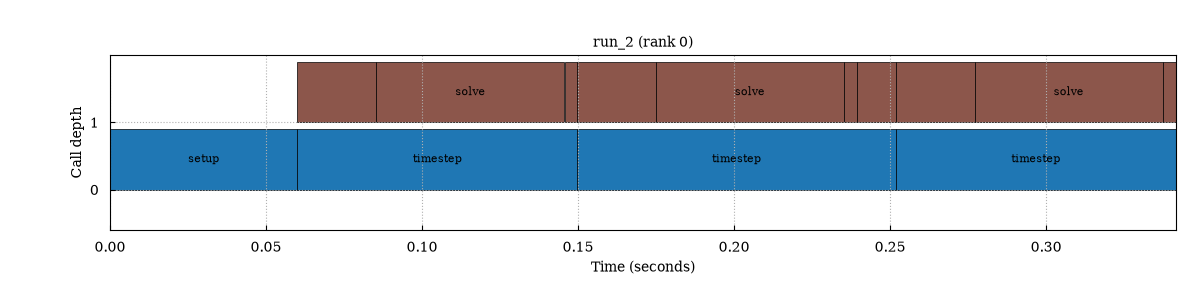
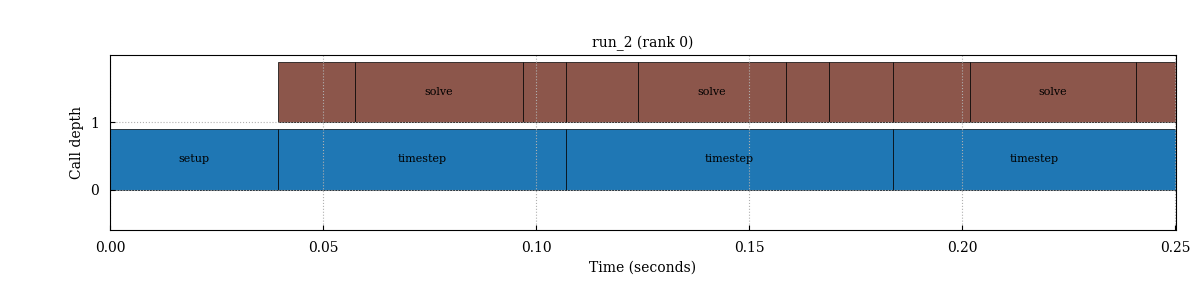
Fixed the Gantt chart

diff --git a/src/scope_profiler/plotting_scripts.py b/src/scope_profiler/plotting_scripts.py
@@ -99,32 +99,44 @@ def _get_cmap_colors(cmap: str, n_colors: int) -> list[str]:
 def _add_gantt_bars(
     canvas,
     row: int | None,
-    tasks: Sequence[str],
-    starts: Sequence[float],
-    durations: Sequence[float],
-    colors: Sequence[str],
+    lanes: Sequence[str],
+    bars: Sequence[tuple[int, float, float, str]],
     alpha: float = 0.7,
 ) -> None:
-    """Draw ``Canvas.gantt`` bars, one call per color.
+    """Draw ``Canvas.gantt`` bars, every call of a lane on that lane's row.
 
-    ``Canvas.gantt`` takes a single color per call: maxplotlib's Plotly
-    backend reads ``color`` as one RGB(A) value, so passing a per-bar list
-    raises. One call is therefore issued per distinct color, with the bars
-    belonging to the other colors passed as NaN. NaN bars draw nothing on
-    either backend while still occupying their row, which keeps every call
-    on the row ``Canvas.gantt`` assigns it (``y = arange(len(tasks))``).
+    ``Canvas.gantt`` puts bar *i* of a call on row *i* (``y =
+    arange(len(tasks))``, on both backends) and takes a single color for the
+    whole call, since maxplotlib's Plotly backend reads ``color`` as one
+    RGB(A) value. Each drawing call therefore passes one entry per lane --- so
+    the entry index is the lane's row --- and only fills in the bars sharing
+    one color; the rest are NaN, which draws nothing on either backend.
+
+    Lanes hold several calls, so bars are grouped by their position within the
+    lane as well: the *k*-th call of every lane goes into the same group,
+    leaving at most one bar per lane per drawing call.
     """
     col = None if row is None else 0
-    starts = np.asarray(starts, dtype=float)
-    durations = np.asarray(durations, dtype=float)
-    colors = np.asarray(colors, dtype=object)
+    n_lanes = len(lanes)
 
-    for color in dict.fromkeys(colors.tolist()):
-        mask = colors == color
+    # (color, index within the lane) -> the bars drawn together.
+    groups: dict[tuple[str, int], list[tuple[int, float, float]]] = defaultdict(list)
+    calls_per_lane: dict[int, int] = defaultdict(int)
+    for lane, start, duration, color in bars:
+        slot = calls_per_lane[lane]
+        calls_per_lane[lane] += 1
+        groups[(color, slot)].append((lane, start, duration))
+
+    for (color, _), group in groups.items():
+        starts = np.full(n_lanes, np.nan)
+        durations = np.full(n_lanes, np.nan)
+        for lane, start, duration in group:
+            starts[lane] = start
+            durations[lane] = duration
         canvas.gantt(
-            list(tasks),
-            np.where(mask, starts, np.nan),
-            np.where(mask, durations, np.nan),
+            list(lanes),
+            starts,
+            durations,
             row=row,
             col=col,
             color=color,
@@ -167,19 +179,6 @@ def _render(
         canvas.show(backend=backend)
     elif backend == "matplotlib":
         _close_matplotlib_figure(canvas)
-
-
-def _block_ticks(tasks: Sequence[str]) -> tuple[list[float], list[str]]:
-    """Return one tick per run of identical task names, at the run's centre."""
-    ticks: list[float] = []
-    labels: list[str] = []
-    start = 0
-    for index in range(1, len(tasks) + 1):
-        if index == len(tasks) or tasks[index] != tasks[start]:
-            ticks.append((start + index - 1) / 2)
-            labels.append(tasks[start])
-            start = index
-    return ticks, labels
 
 
 def _panel_gridspec(
@@ -575,30 +574,43 @@ def plot_gantt(
         else:
             print(f"Plotting combined Gantt chart for files: {', '.join(labels)}")
 
-    # Canvas.gantt gives every bar its own row (y = arange(len(tasks))), so a
-    # panel is as tall as the number of calls it draws, and the rows of one
-    # region form a contiguous block labelled at its centre.
+    # One lane per (region, rank): every call of a region lands on the same
+    # row, so a panel is as tall as the number of lanes it draws.
     single_panel = len(prepared) == 1
-    panel_bars = [
-        [
-            (
-                f"{region.name} (rank {rank})",
-                float(start - first_start_time),
-                float(end - start),
-                _to_hex(region.color),
-            )
-            for region in regions
-            for rank in selected_ranks
-            for start, end in zip(region[rank].start_times, region[rank].end_times)
-        ]
-        for _, regions, selected_ranks, first_start_time in prepared
-    ]
+    panel_lanes: list[list[str]] = []
+    panel_bars: list[list[tuple[int, float, float, str]]] = []
+    for _, regions, selected_ranks, first_start_time in prepared:
+        lanes: list[str] = []
+        bars: list[tuple[int, float, float, str]] = []
+        for region in regions:
+            for rank in selected_ranks:
+                # A region need not have been entered on every rank.
+                if rank not in region:
+                    continue
+                region_data = region[rank]
+                if not len(region_data.start_times):
+                    continue
+                lane = len(lanes)
+                lanes.append(f"{region.name} (rank {rank})")
+                color = _to_hex(region.color)
+                for start, end in zip(region_data.start_times, region_data.end_times):
+                    bars.append(
+                        (
+                            lane,
+                            float(start - first_start_time),
+                            float(end - start),
+                            color,
+                        )
+                    )
+        panel_lanes.append(lanes)
+        panel_bars.append(bars)
+
     if not any(panel_bars):
         raise ValueError("No calls recorded for the requested ranks.")
 
-    panel_heights = [max(2.5, 0.22 * len(bars)) for bars in panel_bars]
+    panel_heights = [max(2.5, 0.35 * len(lanes)) for lanes in panel_lanes]
     fig_width, fig_height = 12.0, 1.0 + sum(panel_heights)
-    lane_label_chars = max(len(bar[0]) for bars in panel_bars for bar in bars)
+    lane_label_chars = max(len(lane) for lanes in panel_lanes for lane in lanes)
     canvas = Canvas(
         nrows=len(prepared),
         ncols=1,
@@ -608,27 +620,20 @@ def plot_gantt(
         ),
     )
 
-    for idx, (label, bars) in enumerate(zip(labels, panel_bars)):
+    for idx, (label, lanes, bars) in enumerate(zip(labels, panel_lanes, panel_bars)):
         row = None if single_panel else idx
         col = None if single_panel else 0
 
-        tasks = [bar[0] for bar in bars]
-        starts = [bar[1] for bar in bars]
-        durations = [bar[2] for bar in bars]
-        colors = [bar[3] for bar in bars]
-        _add_gantt_bars(canvas, row, tasks, starts, durations, colors)
+        _add_gantt_bars(canvas, row, lanes, bars)
 
-        # Label each region's block of rows once, at its centre, instead of
-        # repeating the region name on every call's row.
-        yticks, yticklabels = _block_ticks(tasks)
-        canvas.set_yticks(yticks, labels=yticklabels, row=row, col=col)
+        canvas.set_yticks(list(range(len(lanes))), labels=lanes, row=row, col=col)
         canvas.set_xlim(
             0,
-            max(start + duration for start, duration in zip(starts, durations)),
+            max(start + duration for _, start, duration, _ in bars),
             row=row,
             col=col,
         )
-        canvas.set_ylim(-0.6, len(tasks) - 0.4, row=row, col=col)
+        canvas.set_ylim(-0.6, len(lanes) - 0.4, row=row, col=col)
         canvas.set_xlabel("Time (seconds)", row=row, col=col)
         canvas.set_title(
             "Profiling Gantt Chart" if single_panel else label, row=row, col=col

diff --git a/src/scope_profiler/tests/test_post_processing.py b/src/scope_profiler/tests/test_post_processing.py
@@ -179,6 +179,59 @@ def test_plot_gantt_combined(tmp_path):
     assert out_file.stat().st_size > 0
 
 
+def test_plot_gantt_puts_every_call_of_a_region_on_one_lane(tmp_path, monkeypatch):
+    """Repeated calls of a region share one row per rank, not a row each."""
+    h5_path = tmp_path / "run.h5"
+    _write_sample_h5(
+        h5_path,
+        {
+            rank: {
+                "setup": ([0], [10]),
+                "solve": ([20, 40, 60], [30, 50, 70]),
+            }
+            for rank in range(2)
+        },
+    )
+
+    bars_by_lane = {}
+
+    class _RecordingCanvas:
+        """Collect what plot_gantt draws instead of rendering it."""
+
+        def __init__(self, *args, **kwargs):
+            self.lanes = None
+
+        def gantt(self, tasks, start_times, durations, **kwargs):
+            self.lanes = tasks
+            for lane, start in enumerate(start_times):
+                if not np.isnan(start):
+                    bars_by_lane.setdefault(lane, []).append(float(start))
+
+        def __getattr__(self, name):
+            # set_yticks, set_xlim, set_title, ... are all no-ops here.
+            return lambda *args, **kwargs: None
+
+    import scope_profiler.plotting_scripts as plotting_scripts
+
+    canvas = _RecordingCanvas()
+    monkeypatch.setattr(
+        plotting_scripts, "_get_canvas", lambda: lambda *a, **kw: canvas
+    )
+    monkeypatch.setattr(plotting_scripts, "_render", lambda *a, **kw: None)
+
+    plot_gantt(ProfilingH5Reader(h5_path), show=False, verbose=False)
+
+    # One lane per (region, rank), and solve's three calls share their lane.
+    assert canvas.lanes == [
+        "setup (rank 0)",
+        "setup (rank 1)",
+        "solve (rank 0)",
+        "solve (rank 1)",
+    ]
+    assert sorted(bars_by_lane) == [0, 1, 2, 3]
+    assert [len(bars_by_lane[lane]) for lane in sorted(bars_by_lane)] == [1, 1, 3, 3]
+
+
 def test_build_call_stack_intervals_reconstructs_nesting(tmp_path):
     # "outer" [0, 100) encloses two sequential "inner" calls, [10, 40) and
     # [50, 90), which in turn each enclose a "leaf" call.
